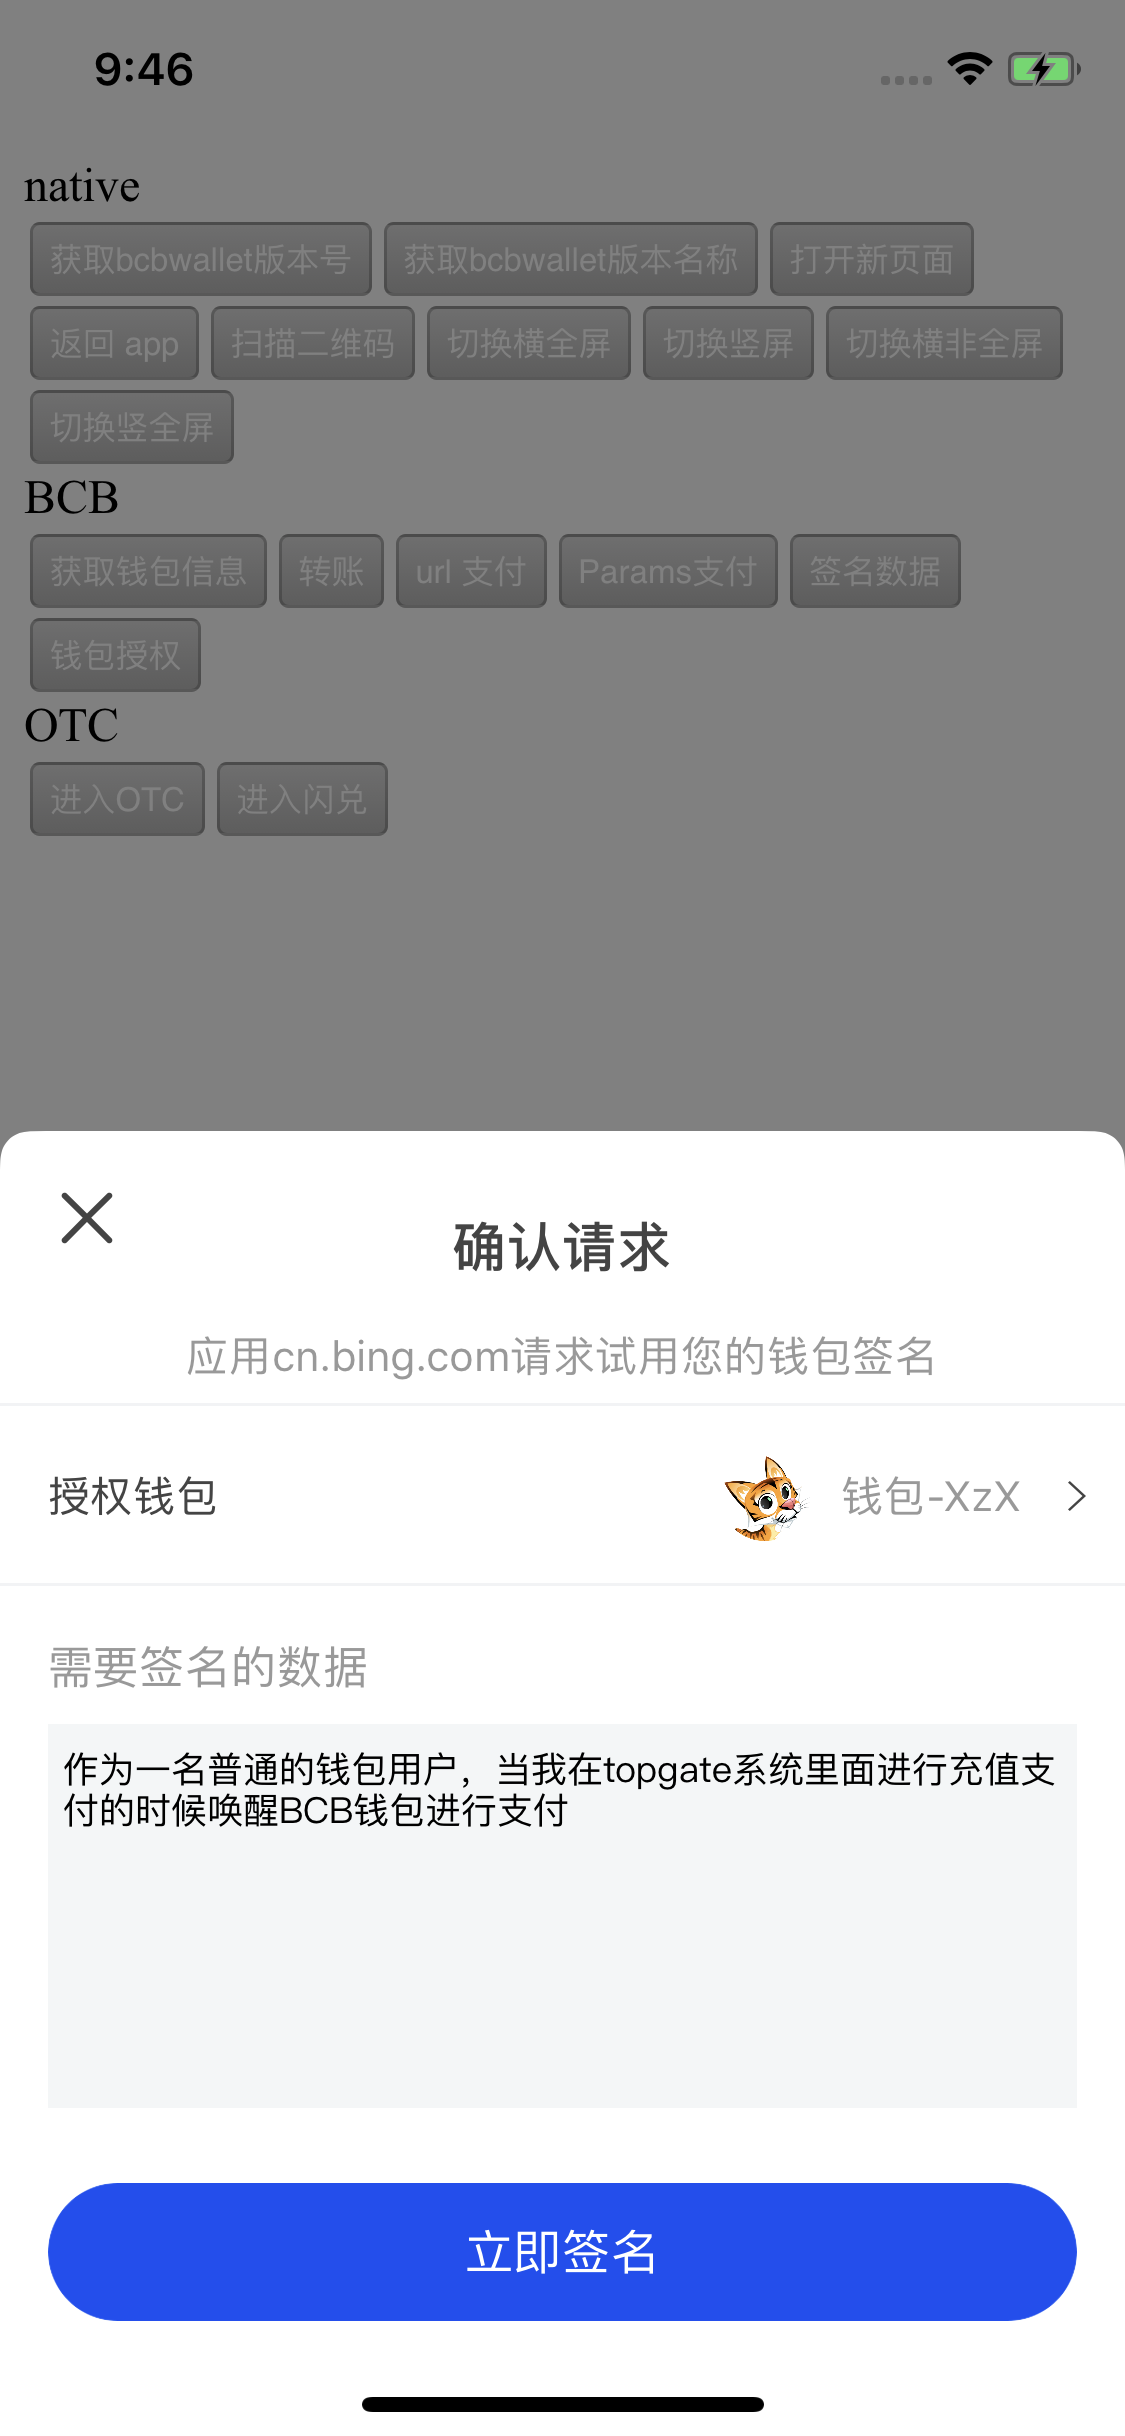
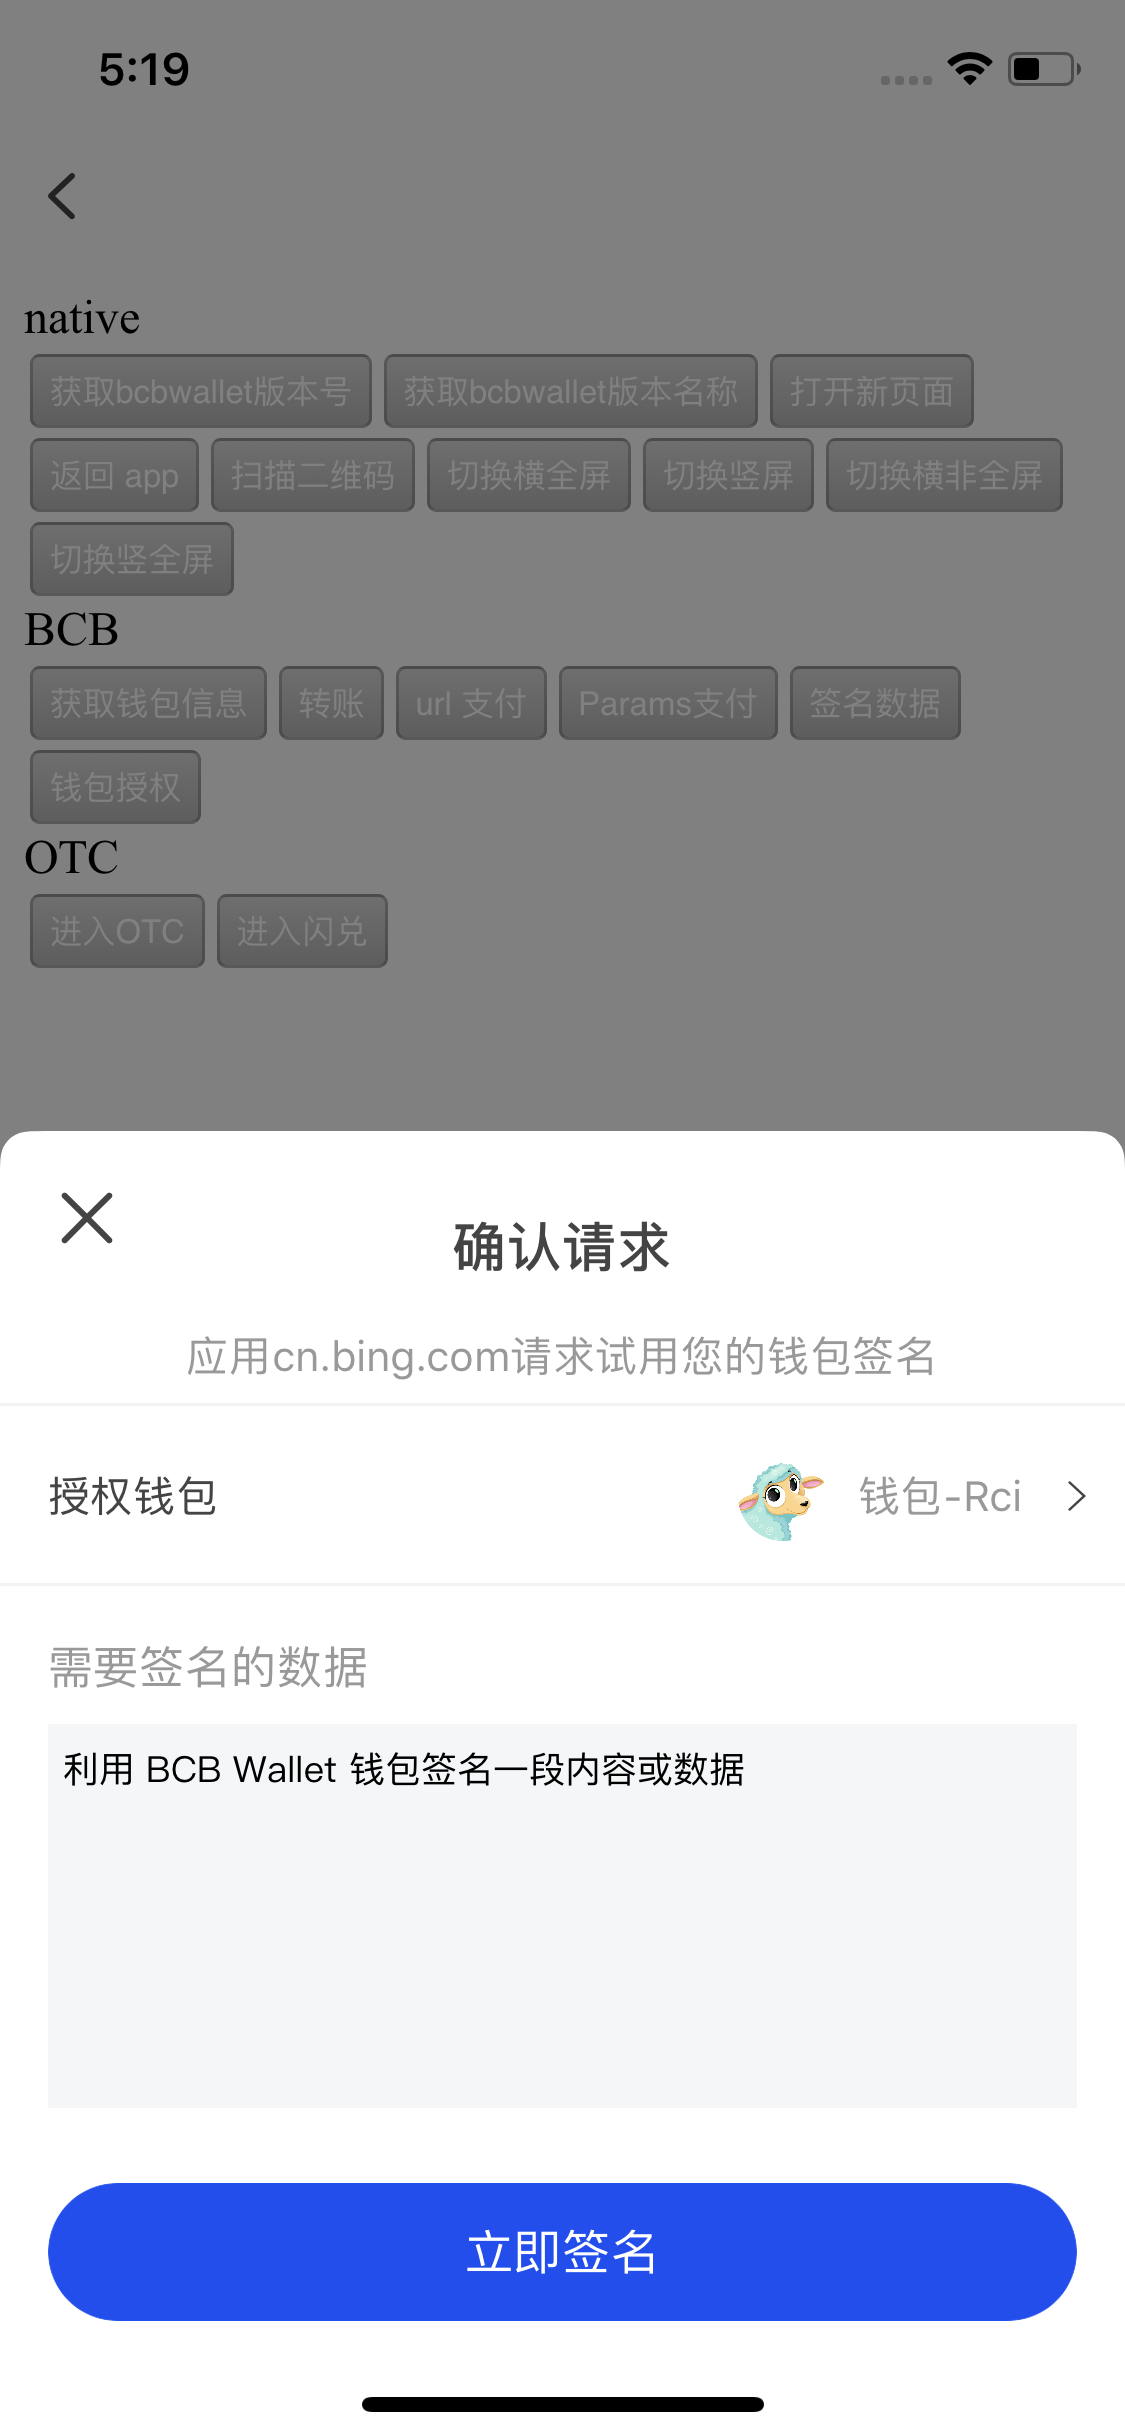
photo

diff --git a/bcbwallet/jsapidemo/templates/jsapi_index.html b/bcbwallet/jsapidemo/templates/jsapi_index.html
@@ -159,7 +159,7 @@
     function sigaData(){
         params = {
             "address": "bcbFJk56Dt9mcwHo3r8tswzySxCcRSBrn7mo",
-            "signContent": "作为一名普通的钱包用户，当我在BCB Wallet 钱包签名数据时可以利用此方法"
+            "signContent": "利用 BCB Wallet 钱包签名一段内容或数据"
         }
         bcbwallet('bcb.signData', params, function(data){
             document.getElementById('content').innerText = JSON.stringify(data);

diff --git a/bcbwallet/bcbwallet/settings.py b/bcbwallet/bcbwallet/settings.py
@@ -25,7 +25,7 @@ SECRET_KEY = 'mar1b%(8y5y5h7ob9lcu&$bl=ug%#dcnt+k_3cjw&bqu6k(nw7'
 # SECURITY WARNING: don't run with debug turned on in production!
 DEBUG = True
 
-ALLOWED_HOSTS = ['localhost', '192.168.31.223', '172.18.20.130', '169.254.135.170']
+ALLOWED_HOSTS = ['localhost', '192.168.31.223', '172.18.20.130', '169.254.135.170', '192.168.1.116']
 
 
 # Application definition
